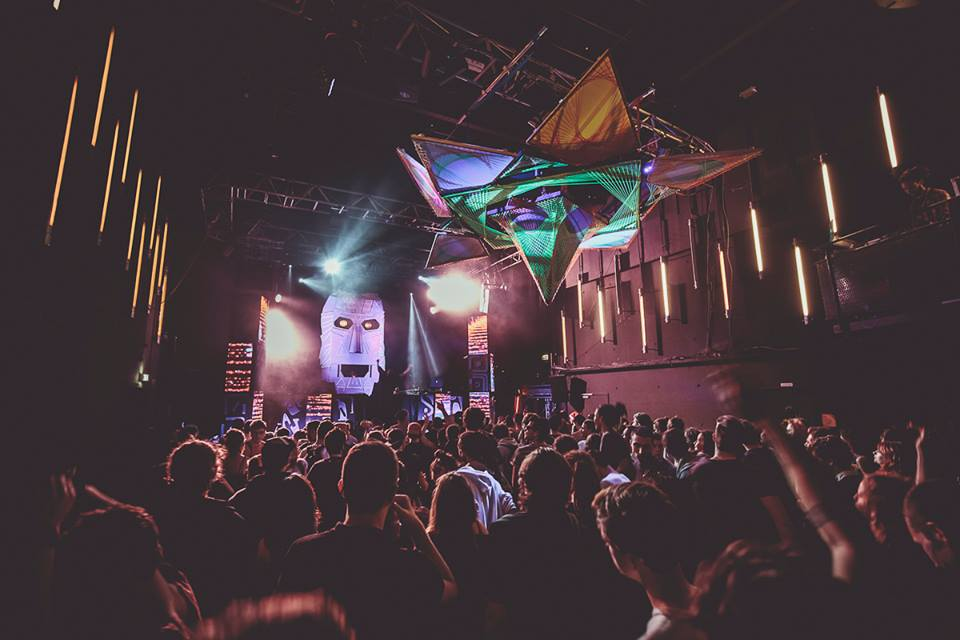
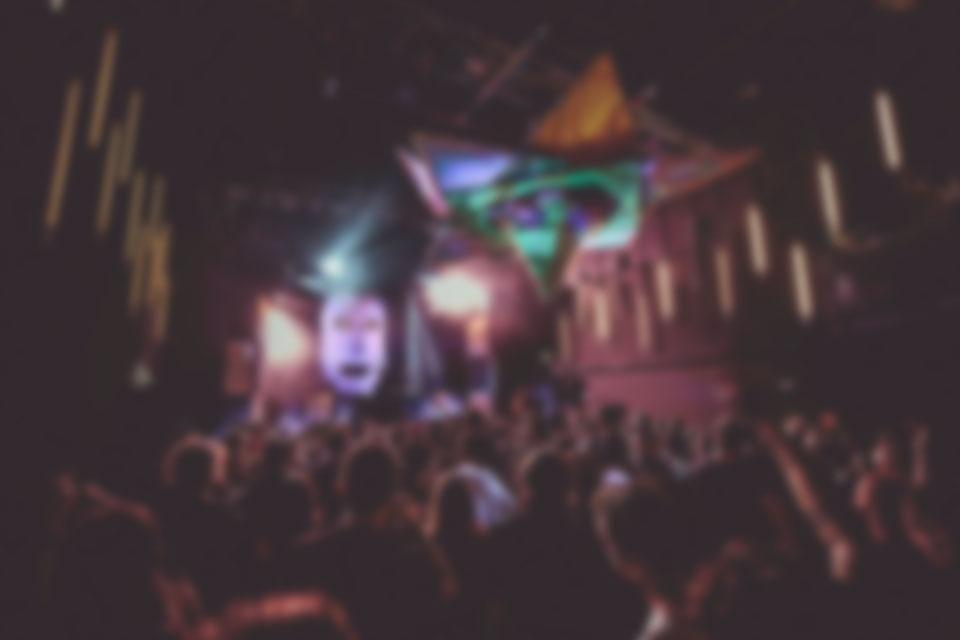
add img

diff --git a/css/styles.css b/css/styles.css
@@ -256,16 +256,11 @@ h2 {
   width: 100%;
   position: absolute;
   /*background-image: linear-gradient(to top, white 0%, #5d4157 100%);*/
-  background: url('http://www.vibes-culturelles.com/files/uniquebase/img/vibes/Dub%20To%20Trance%204_18%20decembre%202015/90.jpg') no-repeat center center fixed;
+  background: url('img/90.jpg') no-repeat center center fixed;
   -webkit-background-size: cover;
   -moz-background-size: cover;
   -o-background-size: cover;
   background-size: cover;
-  -webkit-filter: blur(5px);
-  -moz-filter: blur(5px);
-  -o-filter: blur(5px);
-  -ms-filter: blur(5px);
-  filter: blur(5px);
   align-items: center;
 }
 
